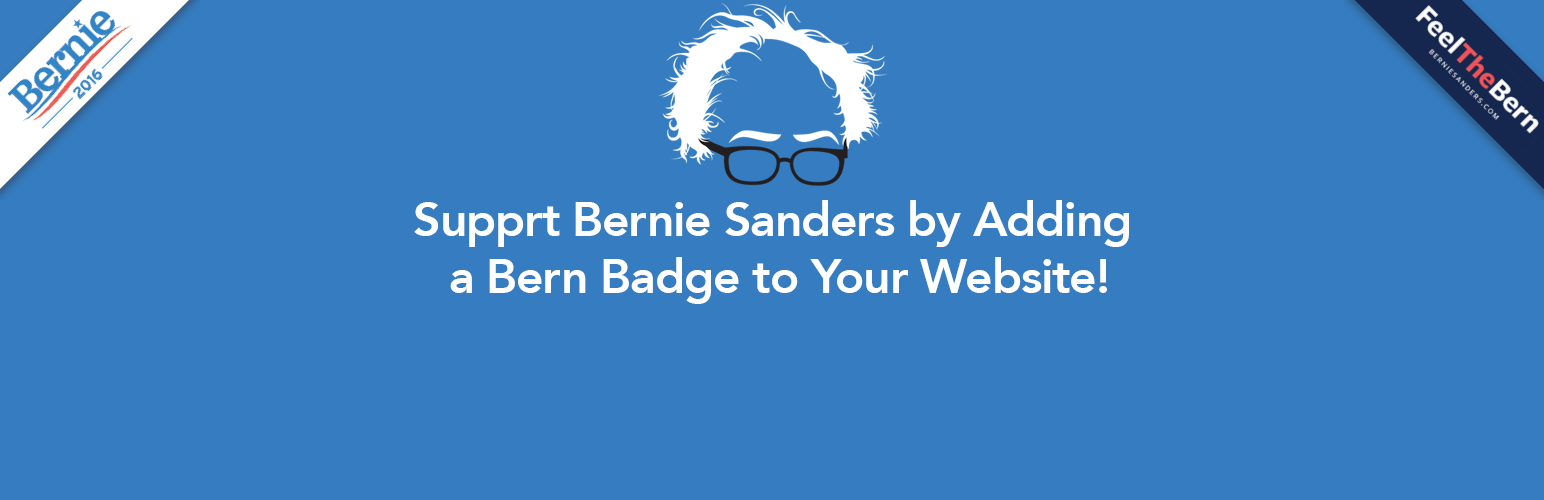
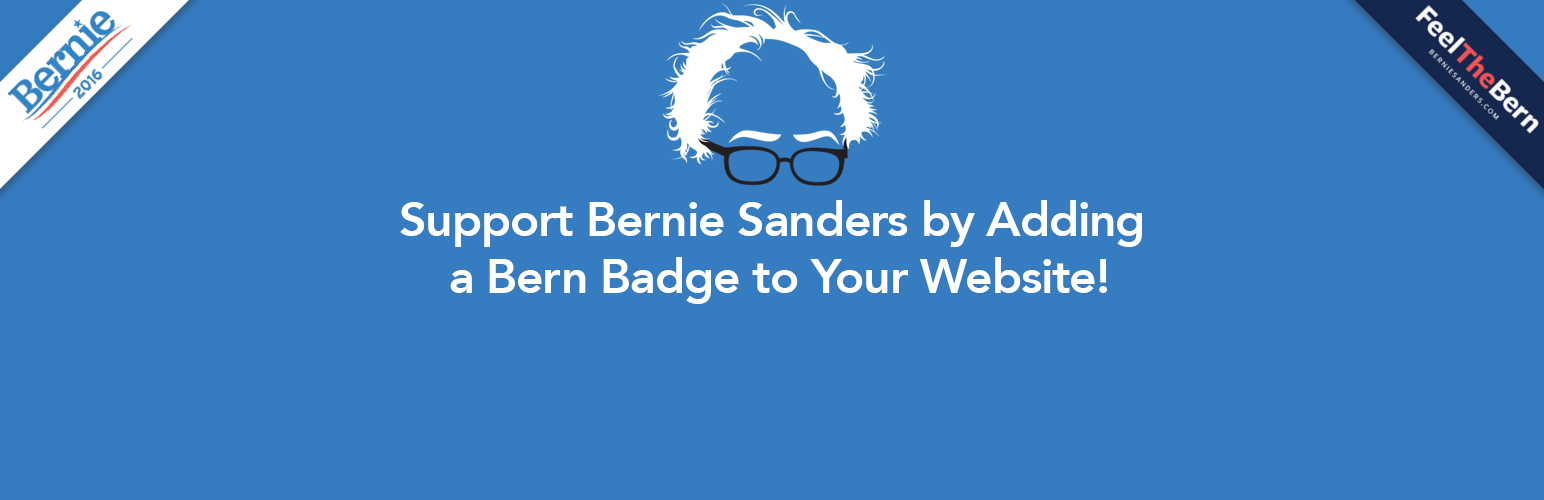
Typo + new version because I tagged the SVN repo incorrectly. Oops.

Changed region(s): [[0.2487, 0.39, 0.7461, 0.51]]

diff --git a/bern-badge.php b/bern-badge.php
@@ -6,7 +6,7 @@
 * Description: Show your support for Bernie Sanders by adding a badge to the top corner of your website.
 * Author: Spokane WordPress Development
 * Author URI: http://www.spokanewp.com
-* Version: 1.1.0
+* Version: 1.1.1
 * Text Domain: bern-badge
 * Domain Path: /languages
 *
@@ -31,9 +31,9 @@ namespace BernBadge;
 
 class Badge {
 
-	const VERSION = '1.0.0';
-	const VERSION_CSS = '1.0.0';
-	const VERSION_JS = '1.0.0';
+	const VERSION = '1.1.1';
+	const VERSION_CSS = '1.1.1';
+	const VERSION_JS = '1.1.1';
 	const DEFAULT_BADGE = 'bern-badge-left-blue-en-6';
 
 	private $color;
